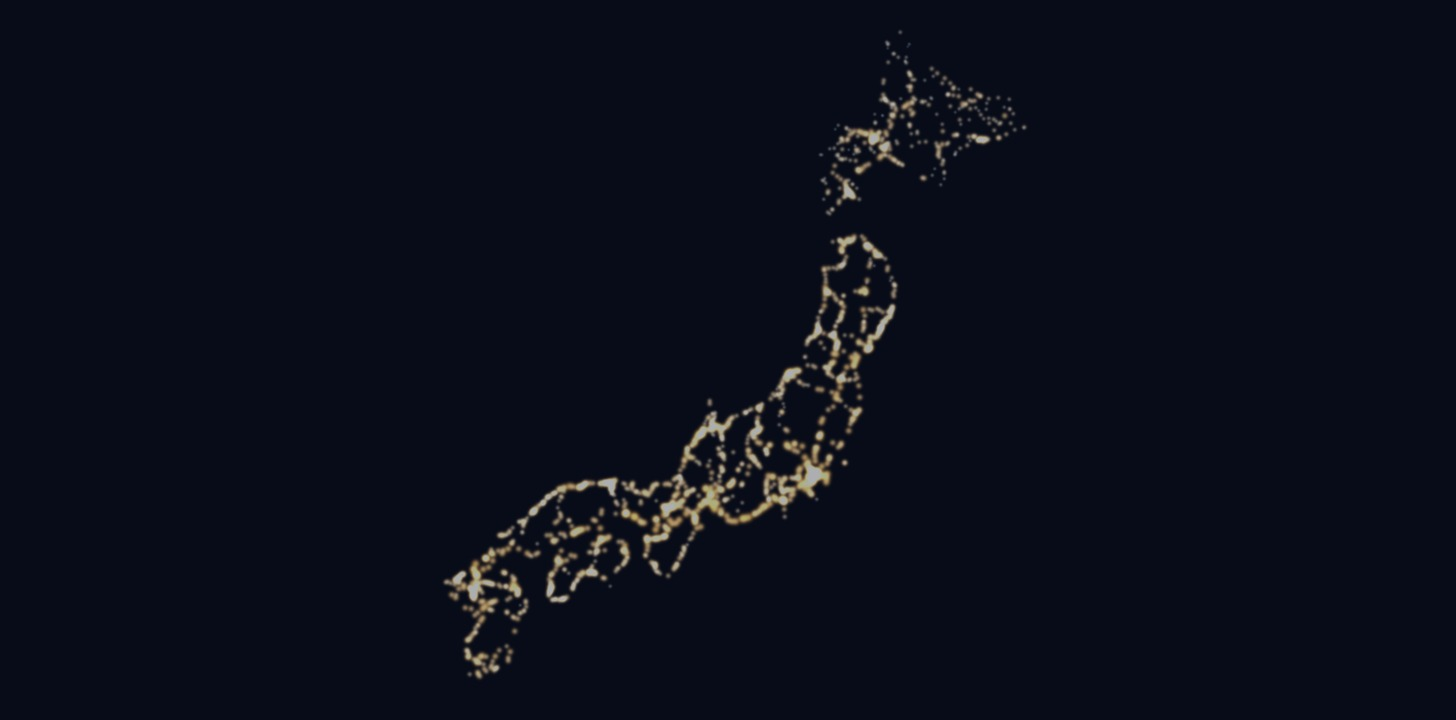
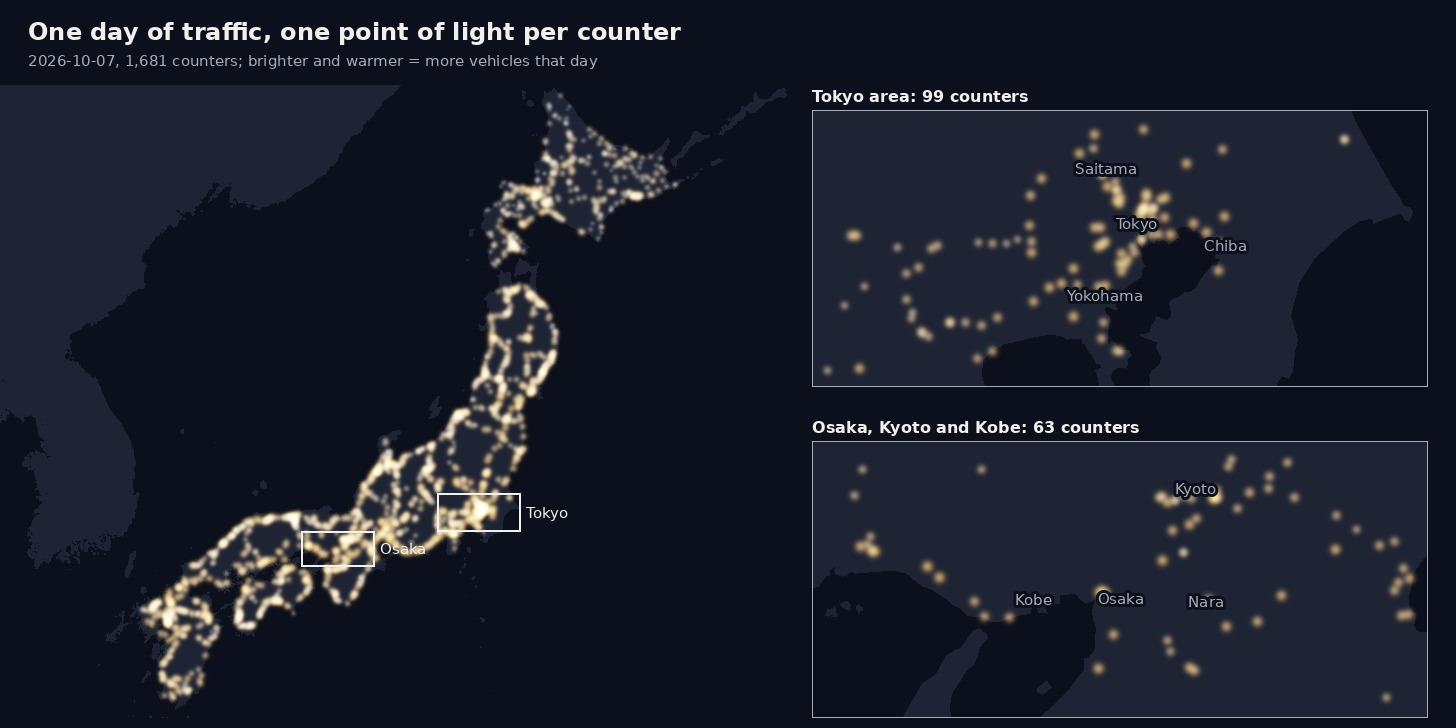
Map: all of Japan plus close-ups of Tokyo and Osaka (#3)
The README map now shows Japan on the left and the Tokyo area and the
Osaka-Kyoto-Kobe area on the right, on one brightness scale, with the
land from data/japan_land.json and city names. The image is 2:1 so it
also serves as the Kaggle cover.

Claude-Session: https://claude.ai/code/session_011B5goiPbmdBNc1AEZ91b5t

diff --git a/scripts/cover.py b/scripts/cover.py
@@ -1,15 +1,26 @@
 """Cover image from the data: every counter of one day as a point of light at its location, brightness and
-size by that day's vehicle count (both directions, all sizes).
+size by that day's vehicle count (both directions, all sizes). All of Japan on the left, and two close-ups on the
+right (Tokyo and the Osaka-Kyoto-Kobe area), on the same brightness scale. The land is Natural Earth (public domain).
 
-  python scripts/cover.py <hourly parquet> <counters.csv> <out.jpg>"""
-import sys
+  python scripts/cover.py <hourly parquet> <counters.csv> <land json> <out.jpg>"""
+import json, os, sys
 import numpy as np
 import pandas as pd
-from PIL import Image, ImageFilter
+from PIL import Image, ImageDraw
 
-src, counters, out = sys.argv[1:4]
-W, H, S = 1456, 720, 2
-w, h = W * S, H * S
+sys.path.insert(0, os.path.dirname(os.path.abspath(__file__)))
+from animate import BG, COOL, INK, INK2, WARM, Map, font  # noqa: E402
+
+src, counters, land, out = sys.argv[1:5]
+W, H = 1456, 728  # 2:1, the shape Kaggle crops a dataset cover to
+JAPAN = (128.5, 146.2, 30.8, 45.6)
+# close-ups: centre (lon, lat), latitude span, title, short name on the map of Japan, cities to name
+CLOSE = [((139.7, 35.6), 0.9, "Tokyo area", "Tokyo",
+          [("Tokyo", 139.767, 35.681), ("Yokohama", 139.638, 35.444), ("Saitama", 139.645, 35.861),
+           ("Chiba", 140.123, 35.607)]),
+         ((135.5, 34.75), 0.8, "Osaka, Kyoto and Kobe", "Osaka",
+          [("Osaka", 135.502, 34.694), ("Kyoto", 135.768, 35.012), ("Kobe", 135.195, 34.690),
+           ("Nara", 135.805, 34.685)])]
 
 df = pd.read_parquet(src)
 day = df.time_jst.dt.date.value_counts().idxmax()  # the best-covered day
@@ -19,32 +30,49 @@ loop = df.sensor == "loop"
 df["n"] = np.where(loop, df[parts].fillna(0).sum(axis=1), df[["up_total", "down_total"]].fillna(0).sum(axis=1))
 vol = df.groupby(["counter_id", "sensor"]).n.sum().rename("vol").reset_index()
 c = pd.read_csv(counters).merge(vol, on=["counter_id", "sensor"])
-c = c[(c.vol > 0) & c.longitude.between(128.5, 146.2) & c.latitude.between(30.8, 45.6)]
-
-# equirectangular with the scale of latitude 37, fitted to the height
-lat0 = np.cos(np.radians(37.0))
-lon_c, lat_c = 137.4, 38.2
-k = 0.94 * h / (45.6 - 30.8)
-x = w / 2 + (c.longitude - lon_c) * lat0 * k
-y = h / 2 - (c.latitude - lat_c) * k
+c = c[(c.vol > 0) & c.longitude.between(JAPAN[0], JAPAN[1]) & c.latitude.between(JAPAN[2], JAPAN[3])]
 v = np.log1p(c.vol.values)
-v = (v - v.min()) / (v.max() - v.min())
+v = (v - v.min()) / (v.max() - v.min())  # one scale for all three panels
+col = COOL + (WARM - COOL) * v[:, None]
+rings = json.load(open(land))["rings"]
 
-glow = np.zeros((h, w, 3))
-yy, xx = np.mgrid[-16:17, -16:17]
-warm = np.array([255, 170, 60]); cool = np.array([90, 170, 255])
-for xi, yi, vi in zip(x.values, y.values, v):
-    r = 1.6 + 3.4 * vi ** 2
-    spot = np.exp(-(xx ** 2 + yy ** 2) / (2 * r ** 2))[..., None] * (0.15 + 0.85 * vi ** 1.5)
-    col = cool + (warm - cool) * vi
-    xi, yi = int(xi), int(yi)
-    x0, x1, y0, y1 = xi - 16, xi + 17, yi - 16, yi + 17
-    if x0 < 0 or y0 < 0 or x1 > w or y1 > h:
-        continue
-    glow[y0:y1, x0:x1] += spot * col / 255
-img = np.clip(glow, 0, 1)
-bg = np.array([8, 12, 24]) / 255
-img = bg + (1 - bg) * (1 - np.exp(-1.1 * img))  # soft saturation where points overlap
-im = Image.fromarray((img * 255).astype(np.uint8)).filter(ImageFilter.GaussianBlur(0.6)).resize((W, H), Image.LANCZOS)
-im.save(out, quality=92)
+canvas = Image.new("RGB", (W, H), BG)
+d = ImageDraw.Draw(canvas)
+d.text((28, 40), "One day of traffic, one point of light per counter", font=font(24, True), fill=INK, anchor="ls")
+d.text((28, 66), f"{day:%Y-%m-%d}, {len(c):,} counters; brighter and warmer = more vehicles that day",
+       font=font(15), fill=INK2, anchor="ls")
+
+# all of Japan
+LW, top = 800, 84
+m = Map(JAPAN, LW, H - top, 1, 10, rings)
+canvas.paste(m.glow(c.longitude, c.latitude, v, col, 2.2), (0, top))
+
+# the close-ups, stacked on the right, each marked on the map of Japan
+x0, PW, gap = LW + 12, W - LW - 12 - 28, 28
+PH = (H - top - 10 - gap) // 2
+for i, ((lon, lat), span, label, short, cities) in enumerate(CLOSE):
+    y0, ph = top + i * (PH + gap) + 26, PH - 26
+    # widen the longitude span so that the box has the panel's shape and fills it
+    half = span / 2 * PW / ph / np.cos(np.radians(lat))
+    box = (lon - half, lon + half, lat - span / 2, lat + span / 2)
+    z = Map(box, PW, ph, 1, 1, rings)
+    # Map.glow skips a point whose spot would cross the panel edge, so count only the points it draws
+    R = int(np.ceil(3.0 * 5))
+    px, py = z.xy(c.longitude.values, c.latitude.values)
+    px, py = np.round(px), np.round(py)
+    inside = pd.Series((px - R >= 0) & (py - R >= 0) & (px + R + 1 <= PW) & (py + R + 1 <= ph), index=c.index)
+    im = z.glow(c.longitude[inside], c.latitude[inside], v[inside.values], col[inside.values], 3.0)
+    dz = ImageDraw.Draw(im)
+    for name, clon, clat in cities:
+        cx, cy = z.xy(clon, clat)
+        dz.text((float(cx), float(cy)), name, font=font(15), fill=INK2, anchor="mm", stroke_width=3,
+                stroke_fill=BG)
+    dz.rectangle([0, 0, PW - 1, ph - 1], outline=INK2, width=1)
+    canvas.paste(im, (x0, y0))
+    d.text((x0, y0 - 8), f"{label}: {int(inside.sum())} counters", font=font(16, True), fill=INK, anchor="ls")
+    mx0, my0 = m.xy(box[0], box[3])
+    mx1, my1 = m.xy(box[1], box[2])
+    d.rectangle([mx0, top + my0, mx1, top + my1], outline=INK, width=2)
+    d.text((mx1 + 6, top + (my0 + my1) / 2), short, font=font(15), fill=INK, anchor="lm")
+canvas.save(out, quality=92)
 print(f"{day}: {len(c)} counters drawn -> {out}")

diff --git a/README.md b/README.md
@@ -15,9 +15,9 @@ The Kaggle files are ready to use: `vehicles` per row for both kinds of counter 
 
 The figures below are drawn from the archive by `scripts/figures.py`, `scripts/cover.py`, `scripts/animate.py` and `scripts/rain.py`; the charts are redrawn every ten days and the animated maps every month. They drop rows the source flags as faulty or missing; the charts use permanent counters only.
 
-<img src="docs/figures/map.jpg" alt="Map of Japan drawn by the traffic counters: one point of light per counter, brighter where more vehicles passed that day">
+<img src="docs/figures/map.jpg" alt="Map of Japan drawn by the traffic counters, one point of light per counter, brighter where more vehicles passed that day, with close-ups of the Tokyo area and of Osaka, Kyoto and Kobe">
 
-Every counter on one day, as a point of light at its location: the national highway network appears by itself.
+Every counter on one day, as a point of light at its location: the national highway network appears by itself. On the right, the Tokyo area and the Osaka, Kyoto and Kobe area close up, on the same brightness scale; the boxes on the map of Japan show where they are.
 
 <img src="docs/figures/day_japan.gif" alt="Animated map of Japan through a workday, hour by hour: counters brighten from 6:00, stay bright through the day and fade after 19:00">
 
@@ -150,7 +150,7 @@ differ by more than 2 points, the census shows the same side heavier for 93% (so
 
 ## Kaggle dataset
 
-`.github/workflows/publish.yml` runs after each collect run. It lists the release assets with their sha256, and when the list differs from `data/published_assets.txt` it downloads them, adds new counters to `data/counters.csv` (`scripts/build_counters.py --from-files`), writes one Parquet file per ten days and resolution with English column names (`scripts/build_kaggle.py`: `hourly_YYYY-MM_DD-DD.parquet`, `five_minute_kanto_YYYY-MM_DD-DD.parquet`, plus `counters.csv` and `census_2021_counters.csv`; Kaggle's preview failed on monthly files of 1.1 million rows and more), and writes the metadata (`scripts/make_kaggle_meta.py`, which stops if a column has no description). It publishes a new version of [yasunorim/japan-road-traffic-volume](https://www.kaggle.com/datasets/yasunorim/japan-road-traffic-volume) only when the repository variable `KAGGLE_PUBLISH` is `true` (a manual run with `publish` always does), and records the list as published only after Kaggle reports the new version ready. The Kaggle files also carry derived columns: `up_vehicles` / `down_vehicles` / `vehicles` (one column for both sensors, empty when a permanent counter flags a fault), `flagged`, `weekday`, `is_holiday` (national and substitute holidays from `data/holidays_jp.csv`, taken from the Cabinet Office list: 出典：内閣府ホームページ「国民の祝日について」（公共データ利用規約 第1.0版）を加工して作成; the build stops when the data reaches a year the list does not cover) and `prefecture` / `prefecture_en`. The published `counters.csv` adds `prefecture_en` and `municipality_en` (e.g. Yokohama-shi Tsurumi-ku) from `data/municipalities_en.csv`, made by `scripts/make_municipalities_en.py` from the MIC local government code list (出典：「全国地方公共団体コード」（総務省）（https://www.soumu.go.jp/denshijiti/code.html）を加工して作成, for the type of municipality) and Wikidata's English labels (CC0, for the name); town names stay in Japanese. Column descriptions for the dataset page are in `kaggle/settings.json`; the cover image is drawn from the data by `scripts/cover.py`.
+`.github/workflows/publish.yml` runs after each collect run. It lists the release assets with their sha256, and when the list differs from `data/published_assets.txt` it downloads them, adds new counters to `data/counters.csv` (`scripts/build_counters.py --from-files`), writes one Parquet file per ten days and resolution with English column names (`scripts/build_kaggle.py`: `hourly_YYYY-MM_DD-DD.parquet`, `five_minute_kanto_YYYY-MM_DD-DD.parquet`, plus `counters.csv` and `census_2021_counters.csv`; Kaggle's preview failed on monthly files of 1.1 million rows and more), and writes the metadata (`scripts/make_kaggle_meta.py`, which stops if a column has no description). It publishes a new version of [yasunorim/japan-road-traffic-volume](https://www.kaggle.com/datasets/yasunorim/japan-road-traffic-volume) only when the repository variable `KAGGLE_PUBLISH` is `true` (a manual run with `publish` always does), and records the list as published only after Kaggle reports the new version ready. The Kaggle files also carry derived columns: `up_vehicles` / `down_vehicles` / `vehicles` (one column for both sensors, empty when a permanent counter flags a fault), `flagged`, `weekday`, `is_holiday` (national and substitute holidays from `data/holidays_jp.csv`, taken from the Cabinet Office list: 出典：内閣府ホームページ「国民の祝日について」（公共データ利用規約 第1.0版）を加工して作成; the build stops when the data reaches a year the list does not cover) and `prefecture` / `prefecture_en`. The published `counters.csv` adds `prefecture_en` and `municipality_en` (e.g. Yokohama-shi Tsurumi-ku) from `data/municipalities_en.csv`, made by `scripts/make_municipalities_en.py` from the MIC local government code list (出典：「全国地方公共団体コード」（総務省）（https://www.soumu.go.jp/denshijiti/code.html）を加工して作成, for the type of municipality) and Wikidata's English labels (CC0, for the name); town names stay in Japanese. Column descriptions for the dataset page are in `kaggle/settings.json`; the cover image was drawn from the data by an earlier version of `scripts/cover.py` (all of Japan only).
 
 ## Source and terms
 
